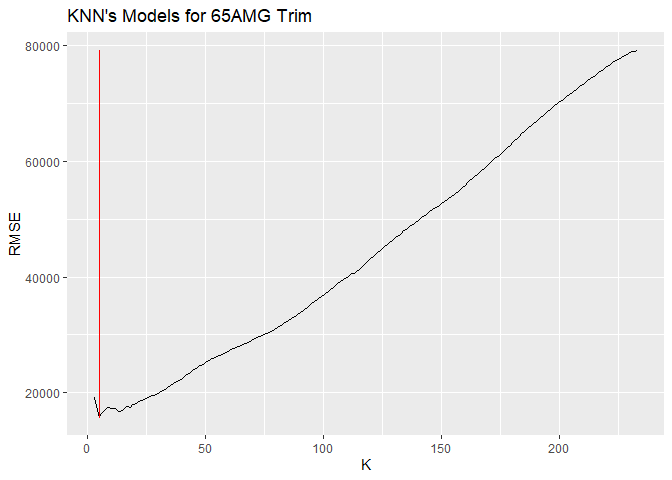
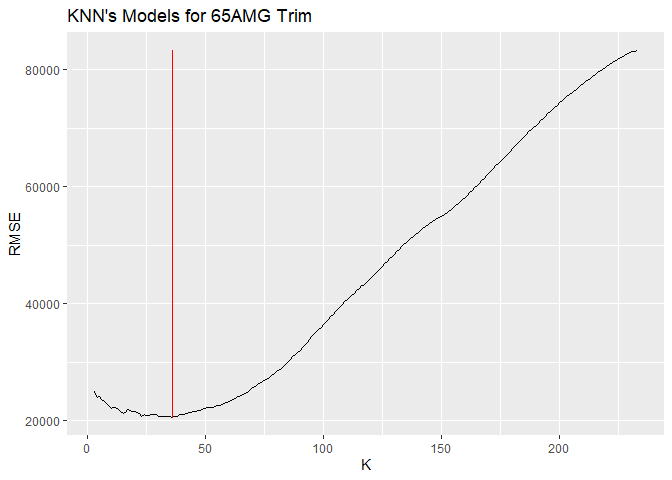
second update

diff --git a/Assignment-1.md b/Assignment-1.md
@@ -115,13 +115,13 @@ mileage.
 
 The figure 2.2. shows the series of RMSE at every value of K, the red
 line indicate the k which generate the minimum RMSE. In this case the k
-value is 16. However this value will change any time we generate a new
+value is 6. However this value will change any time we generate a new
 random sample, to decide the best k we repeated the process ten times
 and then we took the average of the minium k.
 
 ### Figure 2.3.
 
-    ## [1] 8600.687
+    ## [1] 10647.09
 
 ![](Assignment-1_files/figure-markdown_github/unnamed-chunk-13-1.png)
 
@@ -145,7 +145,7 @@ for the S65 AMG class.
 
 The figure 2.5. shows the series of RMSE at every value of K, the red
 line indicate the k which generate the minimum RMSE. In this case the k
-value which minimize the RMSE for S65 AMG trim is 8. However this value
+value which minimize the RMSE for S65 AMG trim is 36. However this value
 will change any time we generate a new random sample, to decide the best
 k we repeated the process ten times and then we took the average of the
 minium k.
